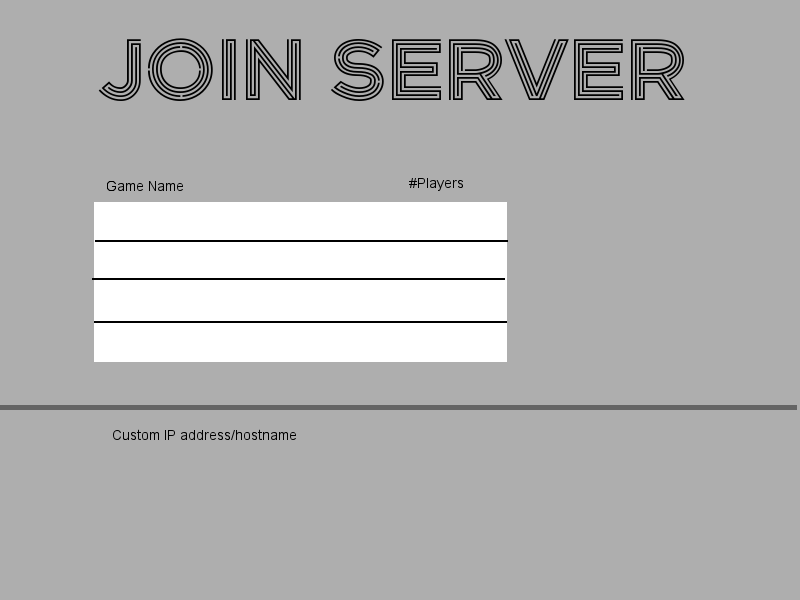
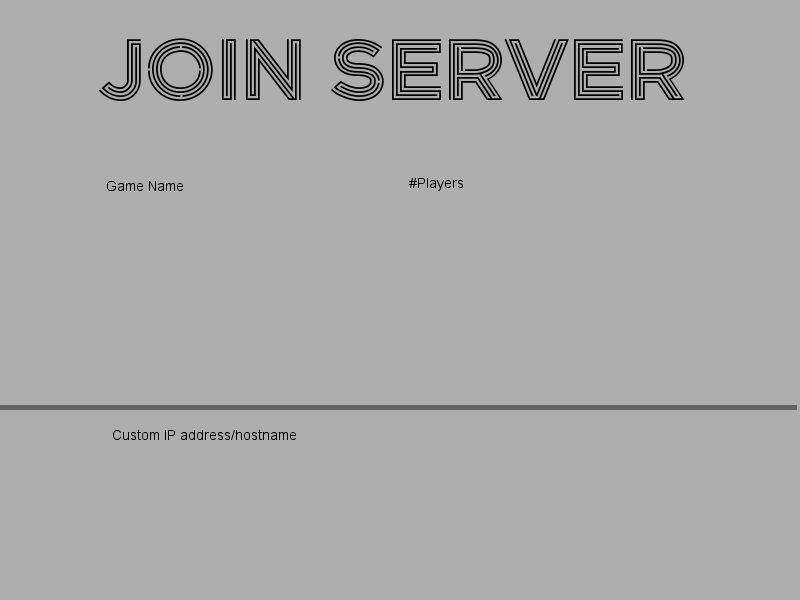
Made join screen better

Changed region(s): [[0.0938, 0.33, 0.6562, 0.63]]

diff --git a/src/game/states/FindGameState.java b/src/game/states/FindGameState.java
@@ -6,6 +6,7 @@ import initial3d.engine.xhaust.TextFieldV0;
 import initial3d.engine.xhaust.vision.ActionIDList;
 import initial3d.engine.xhaust.vision.Button;
 import initial3d.engine.xhaust.vision.Input;
+import initial3d.engine.xhaust.vision.Label;
 
 import java.awt.event.ActionEvent;
 import java.awt.event.ActionListener;
@@ -89,6 +90,25 @@ public class FindGameState extends GameState {
 			}
 		});
 		
+		
+		
+		//Code for the sever select part of the screen
+		
+		Label serverOne = new Label(300);
+		Label serverTwo = new Label(300);
+		Label serverThree = new Label(300);
+		Label serverFour = new Label(300);
+
+		serverOne.setPosition(90, 200);
+		serverTwo.setPosition(90, 226);
+		serverThree.setPosition(90, 252);
+		serverFour.setPosition(90, 278);
+
+		
+
+		
+		
+		
 		pic = new Picture(bg ,0,0, 800,600);
 		
 		
@@ -96,6 +116,10 @@ public class FindGameState extends GameState {
 		p.getRoot().add(target);
 		p.getRoot().add(joinGameButton);
 		p.getRoot().add(mainMenu);
+		p.getRoot().add(serverOne);
+		p.getRoot().add(serverTwo);
+		p.getRoot().add(serverThree);
+		p.getRoot().add(serverFour);
 
 		target.requestLocalFocus();
 		

diff --git a/src/initial3d/engine/xhaust/vision/Label.java b/src/initial3d/engine/xhaust/vision/Label.java
@@ -23,6 +23,16 @@ public class Label extends Component {
 		this.text = string;
 	}
 	
+	public Label(int i) {
+		super(i, defaultHeight);
+	}
+	
+	public void setText(String text){
+		this.text = text;
+	}
+	
+	
+	
 	@Override
 	protected void paintComponent(Graphics g)
 	{
